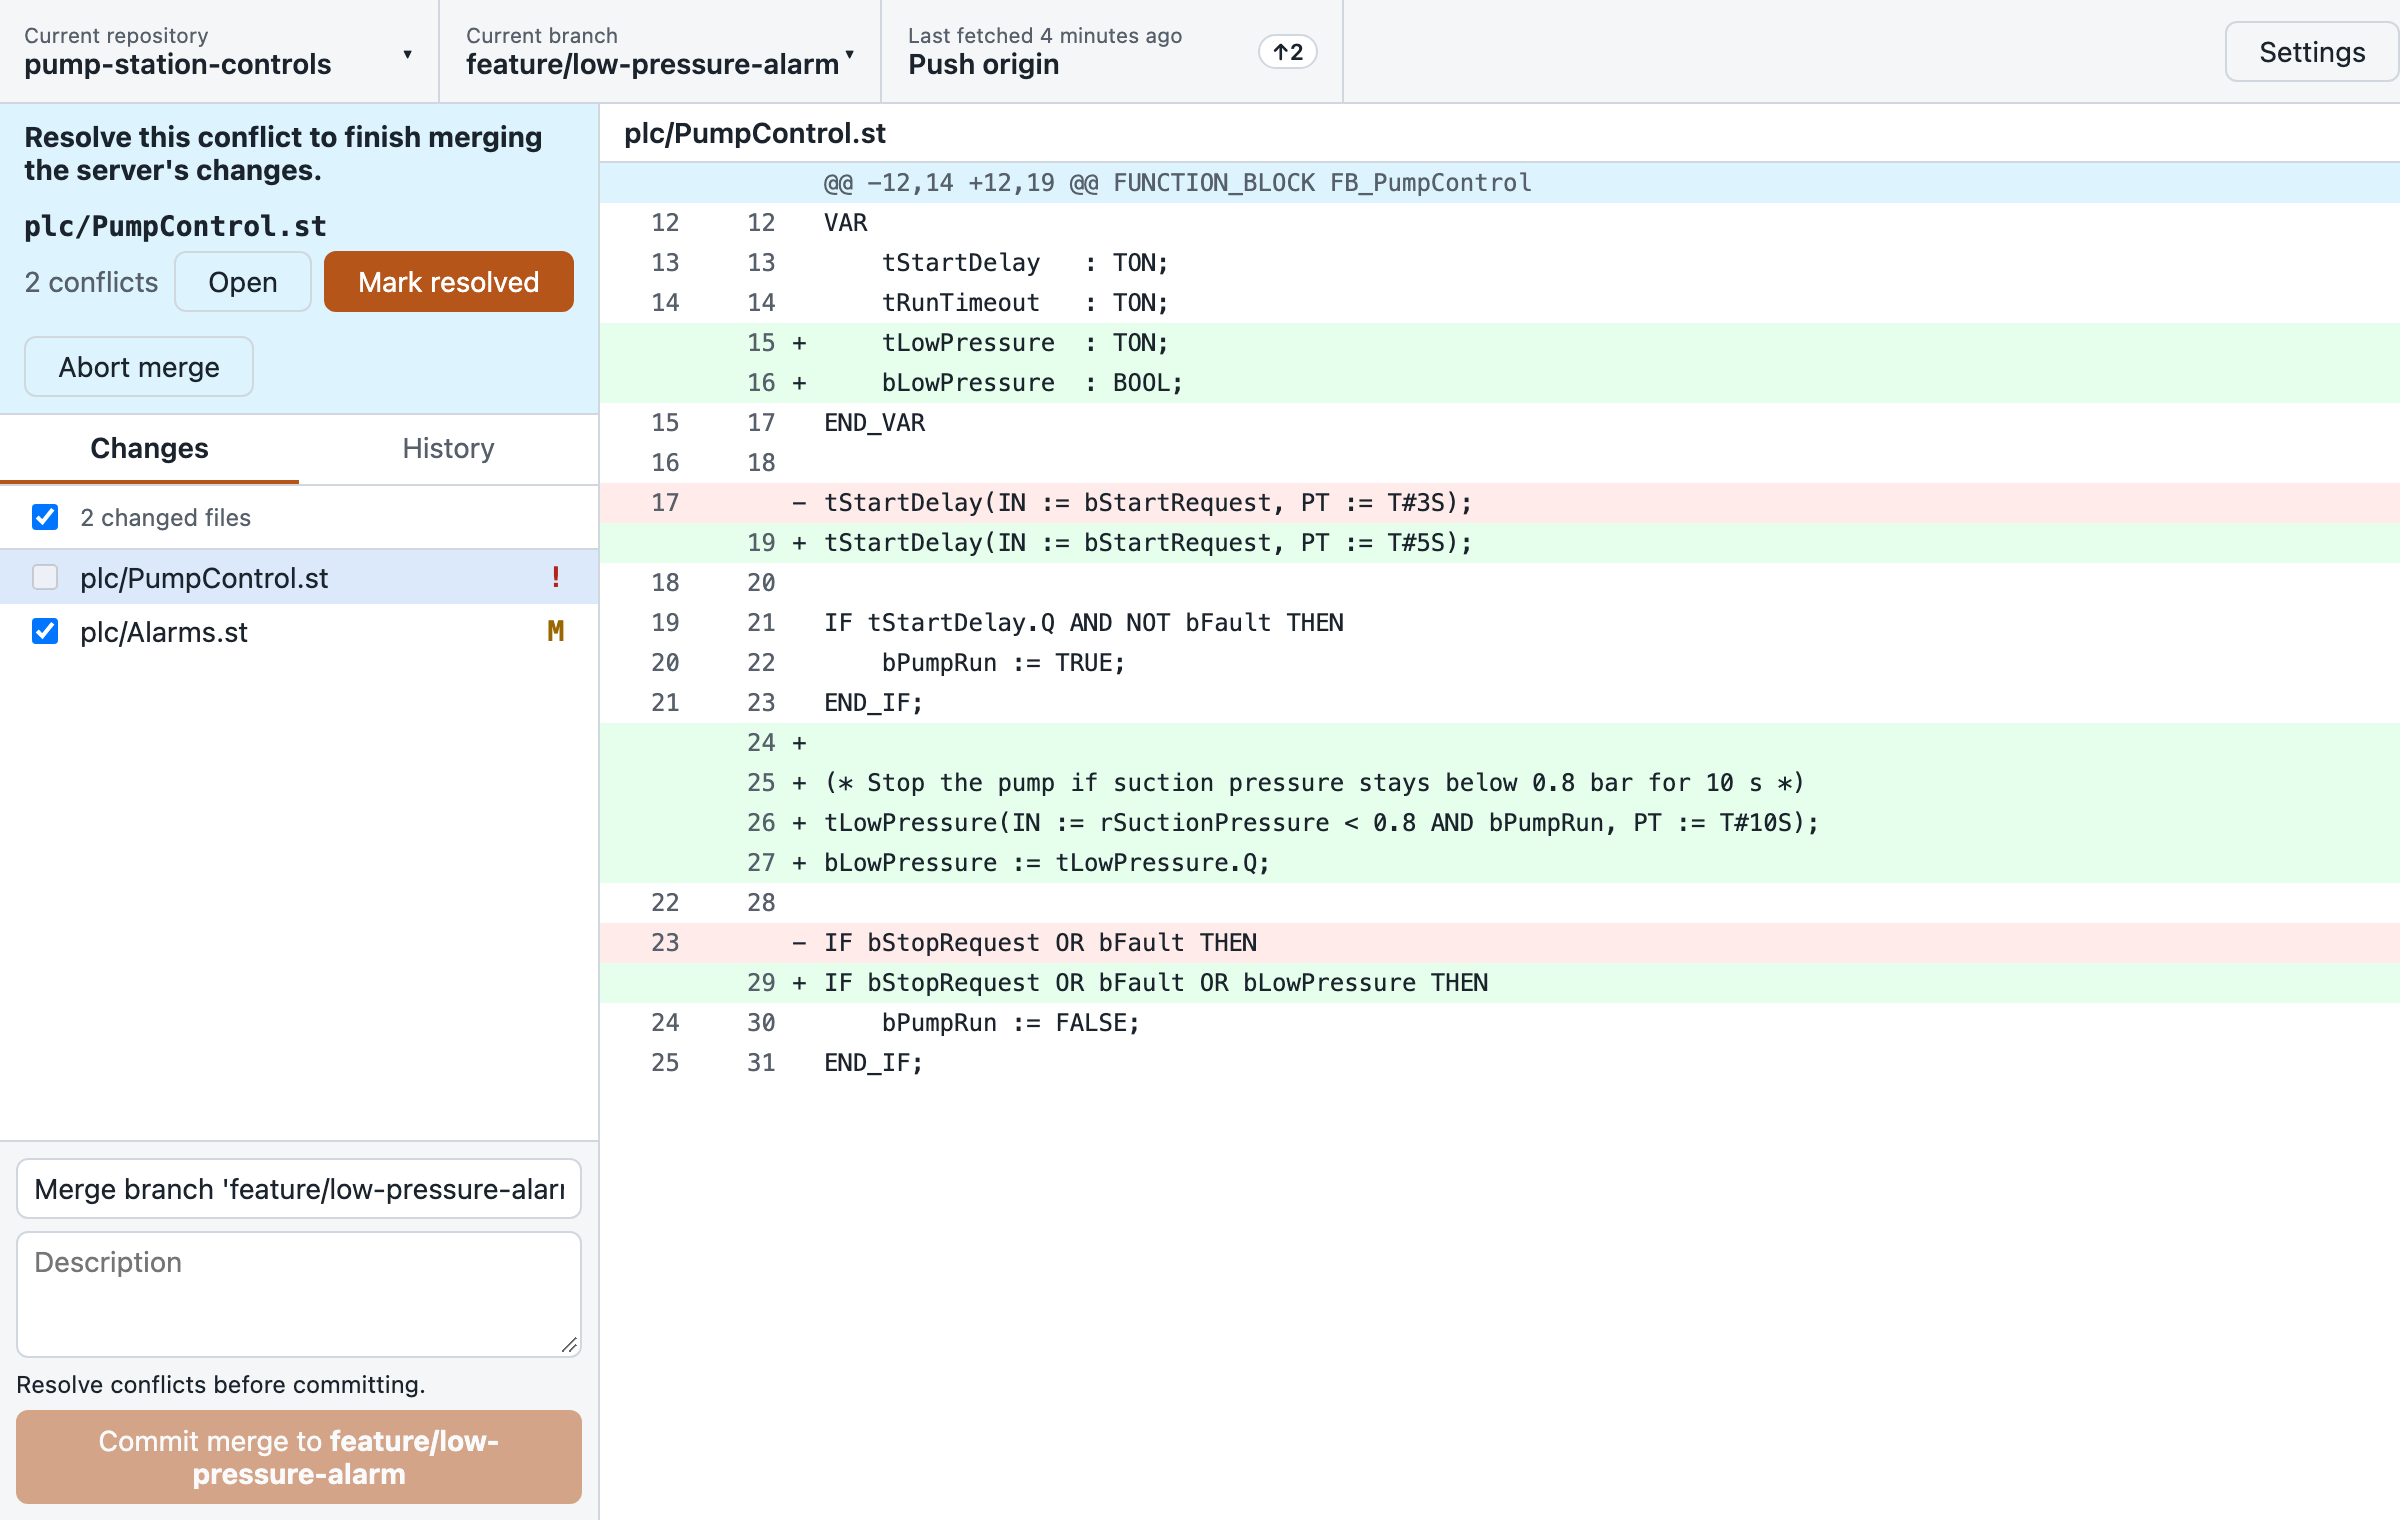
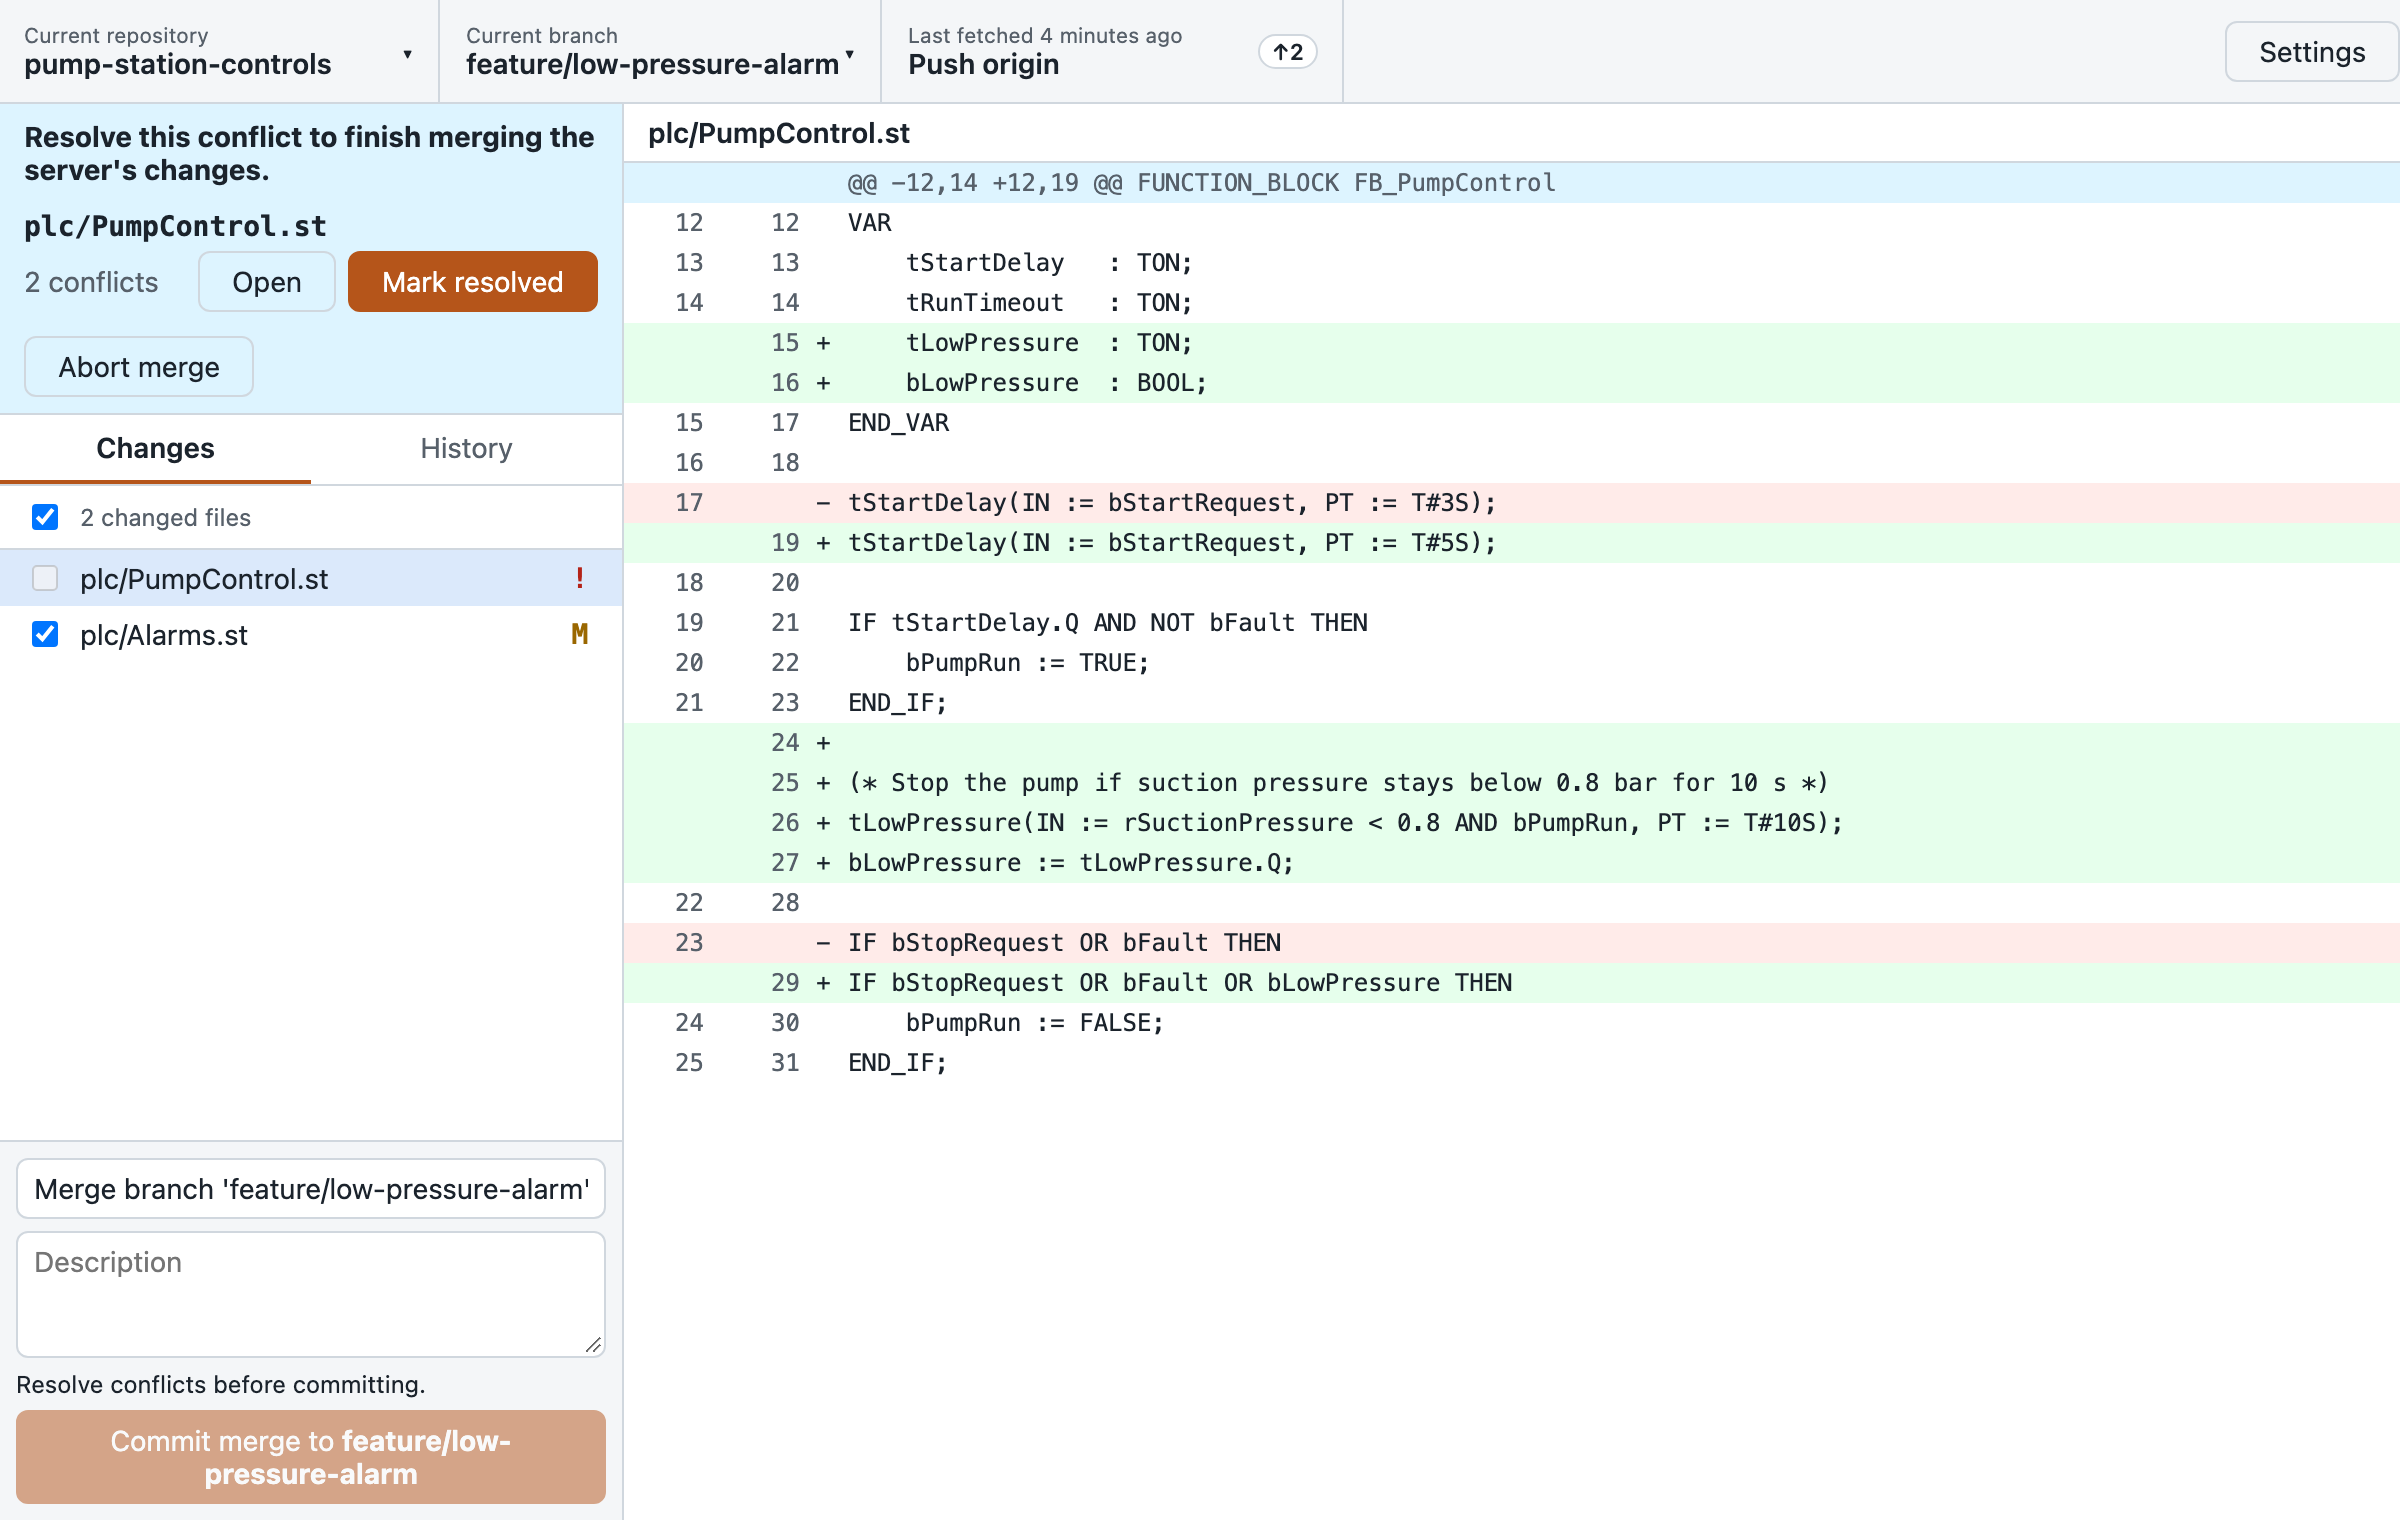
Refresh the website and README screenshots
Regenerated with scripts/screenshots.mjs after the layout changes in
#17. The commit button now wraps to two lines before shortening the
branch name, so normal-length names are shown in full again.

diff --git a/src/styles.css b/src/styles.css
@@ -681,11 +681,14 @@ code {
   width: 100%;
 }
 
-/* One line however long the branch name; the full text is in the tooltip. */
+/* At most two lines however long the branch name; the full text is in the tooltip. */
 .commit-button {
+  display: -webkit-box;
+  -webkit-box-orient: vertical;
+  -webkit-line-clamp: 2;
+  line-clamp: 2;
   overflow: hidden;
-  text-overflow: ellipsis;
-  white-space: nowrap;
+  overflow-wrap: anywhere;
 }
 
 button:disabled {
